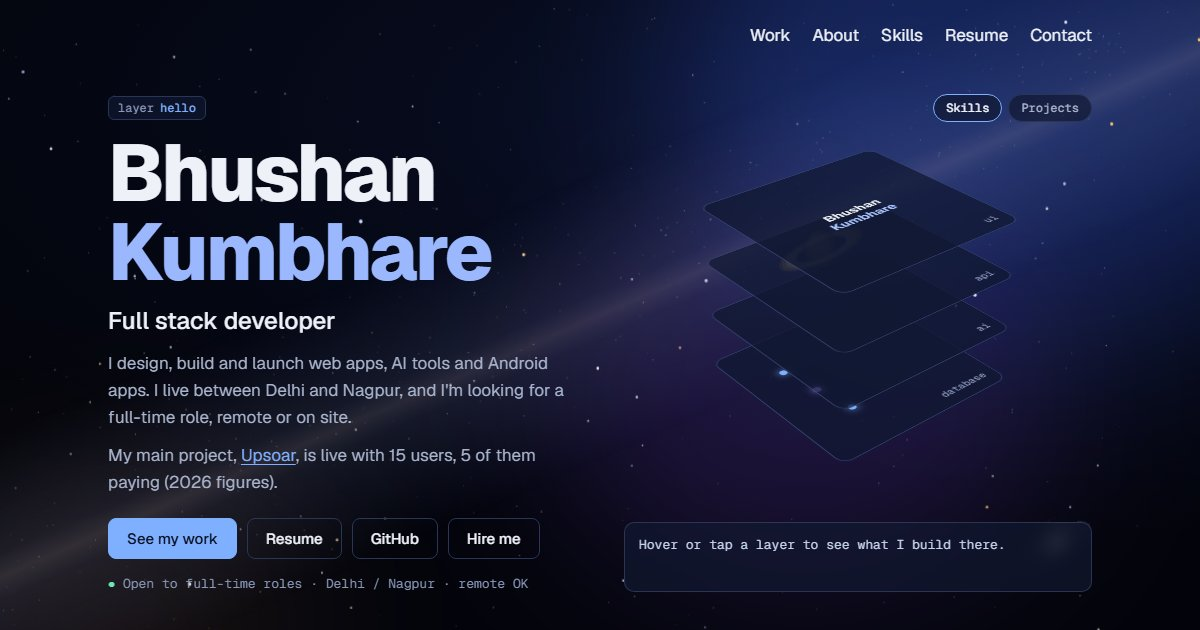
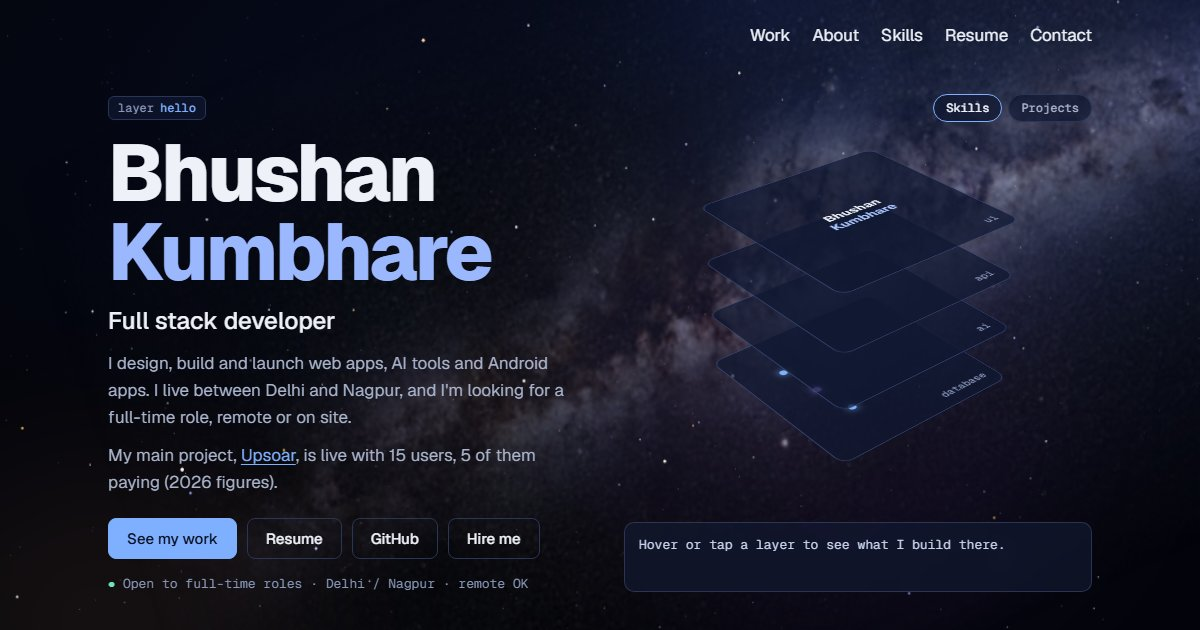
Use real space photos for the scroll journey
The far sky is ESO's Milky Way panorama, and the camera now flies past Cassini's
Saturn and Jupiter, Voyager 2's Neptune and Webb's Carina Nebula to the Event
Horizon Telescope's M87 black hole. Photos are blended so their black
backgrounds disappear, with faded edges where the background isn't pure black.
Light-speed streaks are capped for fast scrolls, the black hole only appears
near the end, and the footer credits every photo.

diff --git a/background.js b/background.js
@@ -1,6 +1,7 @@
-/* A trip through space behind the page. Scrolling flies the camera forward: past a ringed planet, an ice planet
-   and a nebula, ending at a black hole at the bottom of the page. The far sky (Milky Way, a galaxy) stays put,
-   with a slight pull toward the pointer. Also starts the 3D stack in the hero. */
+/* A trip through space behind the page, made from real photos. Scrolling flies the camera forward past Saturn,
+   Jupiter and Neptune, through the Carina Nebula, to the M87 black hole at the bottom of the page. The far sky is
+   the real Milky Way and stays put, with a slight pull toward the pointer. Also starts the 3D stack in the hero.
+   Photo credits are in the footer. */
 (function background() {
   const still = matchMedia('(prefers-reduced-motion: reduce)').matches;
   const canvas = document.getElementById('bg-space');
@@ -23,15 +24,87 @@
     };
   }
 
-  /* Planets, a nebula and the black hole sit at fixed depths. x is in half screen-widths from the centre, so they
-     land on screen on phones too; y and size are in screen-heights.
-     Each one stays hidden until it is closer than `show`, and they pass along the edges, so they don't sit behind text. */
+  /* Photos sit at fixed depths. x is in half screen-widths from the centre, so they land on screen on phones too;
+     y and width are in screen-heights. Each one stays hidden until it is closer than `show`, and they pass along
+     the edges, so they don't sit behind text. All the photos are on black, and they are drawn with "screen"
+     blending, which makes the black see-through. */
   const BODIES = [
-    { z: 1.9, x: .7, y: -.22, r: .07, kind: 'ringed', show: 2.3 },
-    { z: 2.7, x: -.75, y: .28, r: .05, kind: 'ice', show: 2.3 },
-    { z: 3.1, x: .25, y: .1, r: .3, kind: 'nebula', show: 2.6 },
-    { z: TRAVEL + .55, x: .2, y: -.02, r: .085, kind: 'hole', show: 2.2 }
+    { z: 1.7, x: .62, y: -.2, w: .5, src: 'saturn', show: 2.3 },
+    { z: 2.35, x: -.72, y: .22, w: .26, src: 'jupiter', show: 2.3 },
+    { z: 2.9, x: .7, y: .16, w: .24, src: 'neptune', show: 2.3 },
+    { z: 3.3, x: .1, y: 0, w: 1.5, src: 'carina', show: 2.7, alpha: .55 },
+    { z: TRAVEL + .55, x: .2, y: -.02, w: .62, src: 'black-hole', show: 1.3, hole: true }
   ];
+  const photos = {};
+  function loadPhotos() {
+    for (const name of ['milky-way', 'saturn', 'jupiter', 'neptune', 'carina', 'black-hole']) {
+      const img = new Image();
+      img.decoding = 'async';
+      img.onload = () => {
+        /* The nebula and black hole photos are not on pure black, so their edges are faded out once here. */
+        photos[name] = name === 'milky-way' ? band(img) : name === 'carina' || name === 'black-hole' ? feather(img) : img;
+        if (name === 'milky-way') { paintSky(); draw(performance.now()); }
+      };
+      img.src = 'assets/space/' + name + '.jpg';
+    }
+  }
+  function feather(img) {
+    const f = document.createElement('canvas'), g = f.getContext('2d');
+    f.width = img.width; f.height = img.height;
+    g.drawImage(img, 0, 0);
+    g.globalCompositeOperation = 'destination-in';
+    /* An oval fade that reaches zero at every edge. */
+    g.translate(f.width / 2, f.height / 2);
+    g.scale(1, f.height / f.width);
+    const m = g.createRadialGradient(0, 0, f.width * .12, 0, 0, f.width * .49);
+    m.addColorStop(0, '#000');
+    m.addColorStop(1, 'rgba(0, 0, 0, 0)');
+    g.fillStyle = m;
+    g.fillRect(-f.width / 2, -f.width / 2, f.width, f.width);
+    return f;
+  }
+
+  /* The middle of the Milky Way panorama, with its edges faded so no straight line shows. */
+  function band(img) {
+    const f = document.createElement('canvas'), g = f.getContext('2d');
+    f.width = img.width * .64; f.height = img.height * .5;
+    g.drawImage(img, img.width * .18, img.height * .25, f.width, f.height, 0, 0, f.width, f.height);
+    g.globalCompositeOperation = 'destination-in';
+    for (const [x1, y1] of [[0, f.height], [f.width, 0]]) {
+      const m = g.createLinearGradient(0, 0, x1, y1);
+      m.addColorStop(0, 'rgba(0, 0, 0, 0)');
+      m.addColorStop(.25, '#000');
+      m.addColorStop(.75, '#000');
+      m.addColorStop(1, 'rgba(0, 0, 0, 0)');
+      g.fillStyle = m;
+      g.fillRect(0, 0, f.width, f.height);
+    }
+    return f;
+  }
+
+  /* The far sky: the middle of ESO's Milky Way panorama, tilted into a diagonal band, over a few faint stars. */
+  function paintSky() {
+    const rnd = seeded(11);
+    s.clearRect(0, 0, W, H);
+    for (let i = 0, n = Math.round(W * H / 2600); i < n; i++) {
+      s.globalAlpha = .12 + rnd() * .4;
+      s.fillStyle = COLORS[rnd() * COLORS.length | 0];
+      s.fillRect(rnd() * W, rnd() * H, .9, .9);
+    }
+    const mw = photos['milky-way'];
+    if (mw) {
+      s.save();
+      s.globalAlpha = W < 760 ? .4 : .55;
+      s.globalCompositeOperation = 'screen';
+      /* The bright core of the galaxy sits right of centre, away from the text column. */
+      s.translate(W < 760 ? W * .6 : W * .68, H * .42);
+      s.rotate(-Math.atan2(H, W * 1.2));
+      const span = Math.hypot(W, H) * 1.1, tall = span * .5;
+      s.drawImage(mw, -span / 2, -tall / 2, span, tall);
+      s.restore();
+    }
+    s.globalAlpha = 1;
+  }
 
   function build() {
     const dpr = Math.min(devicePixelRatio || 1, 2);
@@ -41,48 +114,7 @@
     sky.width = W * dpr; sky.height = H * dpr;
     s.setTransform(dpr, 0, 0, dpr, 0, 0);
     const rnd = seeded(7);
-
-    /* The far sky: the Milky Way as a soft diagonal band, thick with faint stars, and a small spiral galaxy. */
-    s.clearRect(0, 0, W, H);
-    s.save();
-    s.translate(W / 2, H / 2);
-    s.rotate(-Math.atan2(H, W * 1.2));
-    const band = s.createLinearGradient(0, -H * .22, 0, H * .22);
-    band.addColorStop(0, 'rgba(150, 170, 255, 0)');
-    band.addColorStop(.42, 'rgba(170, 185, 255, .1)');
-    band.addColorStop(.5, 'rgba(230, 220, 255, .16)');
-    band.addColorStop(.58, 'rgba(170, 185, 255, .1)');
-    band.addColorStop(1, 'rgba(150, 170, 255, 0)');
-    s.fillStyle = band;
-    s.fillRect(-W, -H * .22, W * 2, H * .44);
-    s.restore();
-    for (let i = 0, n = Math.round(W * H / 1400); i < n; i++) {
-      const t = rnd(), off = (rnd() + rnd() + rnd() - 1.5) * H * .14;
-      const inBand = rnd() < .6;
-      const x = inBand ? -.1 * W + t * 1.2 * W + off * .6 : rnd() * W;
-      const y = inBand ? .95 * H - t * H + off : rnd() * H;
-      s.globalAlpha = .12 + rnd() * .45;
-      s.fillStyle = COLORS[rnd() * COLORS.length | 0];
-      s.fillRect(x, y, rnd() < .9 ? .8 : 1.3, rnd() < .9 ? .8 : 1.3);
-    }
-    s.save();
-    s.translate(W * .88, H * .86);
-    s.rotate(-.5);
-    s.scale(1, .42);
-    const size = Math.min(W, H) * .1, core = s.createRadialGradient(0, 0, 0, 0, 0, size * .35);
-    core.addColorStop(0, 'rgba(255, 236, 200, .55)');
-    core.addColorStop(1, 'rgba(255, 236, 200, 0)');
-    s.globalAlpha = 1;
-    s.fillStyle = core;
-    s.fillRect(-size, -size, size * 2, size * 2);
-    for (let i = 0; i < 900; i++) {
-      const d = Math.pow(rnd(), .7) * size, a = d / size * 5.5 + (i % 2) * Math.PI + (rnd() - .5) * .7;
-      s.globalAlpha = (1 - d / size) * .5;
-      s.fillStyle = d < size * .25 ? '#ffe9c4' : '#b9c8ff';
-      s.fillRect(Math.cos(a) * d, Math.sin(a) * d, 1, 1);
-    }
-    s.restore();
-    s.globalAlpha = 1;
+    paintSky();
 
     /* Stars in 3D. They repeat every DEPTH units, so flying forward never runs out of stars. */
     const spreadX = W / 2 / F * DEPTH, spreadY = H / 2 / F * DEPTH;
@@ -94,110 +126,6 @@
 
   function project(x, y, rel) {
     return [W / 2 - look.x * 24 + x / rel * F, H / 2 - look.y * 16 + y / rel * F];
-  }
-
-  function sphere(x, y, r, light, mid, dark) {
-    const g = c.createRadialGradient(x - r * .4, y - r * .45, r * .1, x, y, r);
-    g.addColorStop(0, light);
-    g.addColorStop(.55, mid);
-    g.addColorStop(1, dark);
-    c.fillStyle = g;
-    c.beginPath();
-    c.arc(x, y, r, 0, 6.283);
-    c.fill();
-  }
-
-  function ring(x, y, r, from, to, alpha) {
-    c.save();
-    c.translate(x, y);
-    c.rotate(-.35);
-    c.scale(1, .28);
-    c.globalAlpha *= alpha;
-    for (const [rr, col, w] of [[1.75, '#e9d3a6', .18], [2.05, '#c7a978', .12], [2.3, '#8f7a5a', .08]]) {
-      c.strokeStyle = col;
-      c.lineWidth = r * w * 3.4;
-      c.beginPath();
-      c.arc(0, 0, r * rr, from, to);
-      c.stroke();
-    }
-    c.restore();
-  }
-
-  function blackHole(x, y, r, t) {
-    const halo = c.createRadialGradient(x, y, r, x, y, r * 4);
-    halo.addColorStop(0, 'rgba(255, 170, 70, .35)');
-    halo.addColorStop(.4, 'rgba(255, 120, 40, .1)');
-    halo.addColorStop(1, 'rgba(255, 120, 40, 0)');
-    c.fillStyle = halo;
-    c.fillRect(x - r * 4, y - r * 4, r * 8, r * 8);
-    const disk = (from, to) => {
-      c.save();
-      c.translate(x, y);
-      c.rotate(-.12);
-      c.scale(1, .24);
-      /* Keep this half of the disk, streaks included, on its own side of the hole. */
-      c.beginPath();
-      c.rect(-r * 4, from === 0 ? 0 : -r * 4, r * 8, r * 4);
-      c.clip();
-      const g = c.createRadialGradient(0, 0, r * 1.15, 0, 0, r * 3.1);
-      g.addColorStop(0, 'rgba(255, 246, 220, .95)');
-      g.addColorStop(.35, 'rgba(255, 196, 92, .8)');
-      g.addColorStop(.75, 'rgba(214, 102, 40, .35)');
-      g.addColorStop(1, 'rgba(160, 60, 30, 0)');
-      c.fillStyle = g;
-      c.beginPath();
-      c.arc(0, 0, r * 3.1, from, to);
-      c.arc(0, 0, r * 1.15, to, from, true);
-      c.fill();
-      /* Hot streaks circling in the disk. */
-      c.strokeStyle = 'rgba(255, 240, 210, .2)';
-      c.lineWidth = r * .05 / .24;
-      for (let k = 0; k < 7; k++) {
-        const rr = r * (1.35 + k * .15), a = t * (1.6 - k * .15) + k;
-        c.beginPath();
-        c.arc(0, 0, rr, a, a + .6);
-        c.stroke();
-      }
-      c.restore();
-    };
-    disk(Math.PI, Math.PI * 2);
-    /* Light from the far side of the disk bends up over the hole, which makes the arc on top. */
-    c.save();
-    c.translate(x, y);
-    c.scale(1, .9);
-    const arc = c.createRadialGradient(0, 0, r * 1.1, 0, 0, r * 1.75);
-    arc.addColorStop(0, 'rgba(255, 236, 190, .85)');
-    arc.addColorStop(.5, 'rgba(255, 180, 80, .45)');
-    arc.addColorStop(1, 'rgba(255, 140, 50, 0)');
-    c.fillStyle = arc;
-    c.beginPath();
-    c.arc(0, 0, r * 1.75, Math.PI, Math.PI * 2);
-    c.arc(0, 0, r * 1.1, Math.PI * 2, Math.PI, true);
-    c.fill();
-    c.restore();
-    /* The thin bright ring right at the edge of the hole. */
-    c.strokeStyle = 'rgba(255, 214, 140, .9)';
-    c.lineWidth = r * .1;
-    c.beginPath();
-    c.arc(x, y, r * 1.12, 0, 6.283);
-    c.stroke();
-    c.fillStyle = '#000';
-    c.beginPath();
-    c.arc(x, y, r, 0, 6.283);
-    c.fill();
-    disk(0, Math.PI);
-  }
-
-  function nebula(x, y, r) {
-    c.globalCompositeOperation = 'lighter';
-    for (const [dx, dy, rr, col] of [[0, 0, 1, '120, 80, 255'], [.35, -.2, .7, '40, 160, 255'], [-.3, .25, .6, '255, 90, 170'], [.1, .3, .5, '255, 190, 90']]) {
-      const g = c.createRadialGradient(x + dx * r, y + dy * r, 0, x + dx * r, y + dy * r, rr * r);
-      g.addColorStop(0, 'rgba(' + col + ', .22)');
-      g.addColorStop(1, 'rgba(' + col + ', 0)');
-      c.fillStyle = g;
-      c.fillRect(x + dx * r - rr * r, y + dy * r - rr * r, rr * r * 2, rr * r * 2);
-    }
-    c.globalCompositeOperation = 'source-over';
   }
 
   function draw(t) {
@@ -219,7 +147,8 @@
       c.globalAlpha = Math.min(1, .3 + near * 1.1) * twinkle;
       c.fillStyle = c.strokeStyle = st.color;
       if (Math.abs(speed) > .002 && rel > .2) {
-        const [px, py] = project(st.x, st.y, rel + speed * 8);
+        /* Capped, so a fast fling doesn't smear the whole screen. */
+        const [px, py] = project(st.x, st.y, rel + Math.max(-.2, Math.min(.2, speed * 8)));
         c.lineWidth = r;
         c.beginPath();
         c.moveTo(px, py);
@@ -232,30 +161,20 @@
       }
     }
 
-    /* Planets, the nebula and the black hole, farthest first. Bodies fade as they rush past the camera. */
-    const bodies = BODIES.map(b => ({ ...b, rel: b.z - camShown })).filter(b => b.rel > .06).sort((a, b) => b.rel - a.rel);
+    /* The photos, farthest first. They fade in as they approach and fade out as they rush past the camera. */
+    const bodies = BODIES.map(b => ({ ...b, rel: b.z - camShown })).filter(b => b.rel > .06 && photos[b.src]).sort((a, b) => b.rel - a.rel);
+    c.globalCompositeOperation = 'screen';
     for (const b of bodies) {
-      /* On phones the text fills the width, so bodies are smaller and the black hole settles lower, near the footer. */
-      const phone = W < 760, lower = phone && b.kind === 'hole' ? .26 : 0;
+      /* On phones the text fills the width, so photos are smaller and the black hole settles lower, near the footer. */
+      const phone = W < 760, lower = phone && b.hole ? .17 : 0;
+      const img = photos[b.src], w = b.w * F / b.rel * (phone ? .6 : 1), h = w * img.height / img.width;
       const x = W / 2 - look.x * 24 + b.x * W / 2 / b.rel, y = H / 2 - look.y * 16 + (b.y + lower) * F / b.rel;
-      const r = b.r * F / b.rel * (phone ? .6 : 1);
-      if (x + r * 4 < 0 || x - r * 4 > W || y + r * 4 < 0 || y - r * 4 > H) continue;
-      c.globalAlpha = Math.min(1, (b.rel - .06) / .3) * Math.min(1, Math.max(0, (b.show - b.rel) / .8));
-      if (W < 760) c.globalAlpha *= .75;
+      if (x + w / 2 < 0 || x - w / 2 > W || y + h / 2 < 0 || y - h / 2 > H) continue;
+      c.globalAlpha = Math.min(1, (b.rel - .06) / .3) * Math.min(1, Math.max(0, (b.show - b.rel) / .8)) * (b.alpha || 1) * (phone ? .75 : 1);
       if (c.globalAlpha <= 0) continue;
-      if (b.kind === 'ringed') {
-        ring(x, y, r, Math.PI, Math.PI * 2, 1);
-        sphere(x, y, r, '#f6e2b8', '#c9925a', '#3a2412');
-        ring(x, y, r, 0, Math.PI, 1);
-      } else if (b.kind === 'ice') {
-        sphere(x, y, r, '#e6f4ff', '#5ea8e8', '#0b2347');
-        sphere(x + r * 1.9, y - r * .8, r * .27, '#f2f2f2', '#9aa3ad', '#2b3036');
-      } else if (b.kind === 'nebula') {
-        nebula(x, y, r);
-      } else {
-        blackHole(x, y, r, still ? 0 : t / 1000);
-      }
+      c.drawImage(img, x - w / 2, y - h / 2, w, h);
     }
+    c.globalCompositeOperation = 'source-over';
     c.globalAlpha = 1;
   }
 
@@ -286,6 +205,7 @@
   });
   builtW = innerWidth; builtH = innerHeight;
   build();
+  loadPhotos();
   scrollTarget();
   camShown = cam;
   draw(0);

diff --git a/index.html b/index.html
@@ -19,8 +19,8 @@
 <link rel="preconnect" href="https://fonts.gstatic.com" crossorigin>
 <link href="https://fonts.googleapis.com/css2?family=Geist:wght@400..800&family=Geist+Mono:wght@400;500&display=swap" rel="stylesheet">
 <!-- The ?v= on CSS and JS links makes browsers fetch fresh files after an update. Change it (for example to the date) on every update. -->
-<link rel="stylesheet" href="style.css?v=20261113f">
-<link rel="stylesheet" href="background.css?v=20261113f">
+<link rel="stylesheet" href="style.css?v=20261113h">
+<link rel="stylesheet" href="background.css?v=20261113h">
 </head>
 <body>
 <div class="bg" aria-hidden="true">
@@ -114,13 +114,14 @@
 
   <footer class="foot">
     <span>© 2026 Bhushan Kumbhare · plain HTML, CSS and JavaScript</span>
+    <span class="credits">Space photos: NASA/JPL-Caltech/SSI (Saturn, Jupiter), NASA/JPL (Neptune), NASA, ESA, CSA, STScI (Carina Nebula), <a href="https://www.eso.org/public/images/eso0932a/" target="_blank" rel="noopener">ESO/S. Brunier</a> (Milky Way), <a href="https://www.eso.org/public/images/eso1907a/" target="_blank" rel="noopener">EHT Collaboration</a> (M87 black hole), <a href="https://creativecommons.org/licenses/by/4.0/" target="_blank" rel="noopener">CC BY 4.0</a></span>
     <span>stack <b>v2026.11</b> · <a href="https://github.com/shaggyb1/shaggyb1.github.io/commits/main" target="_blank" rel="noopener">changelog</a></span>
   </footer>
 </div>
 
-<script src="data.js?v=20261113f"></script>
-<script src="demos.js?v=20261113f"></script>
-<script src="script.js?v=20261113f"></script>
-<script src="background.js?v=20261113f"></script>
+<script src="data.js?v=20261113h"></script>
+<script src="demos.js?v=20261113h"></script>
+<script src="script.js?v=20261113h"></script>
+<script src="background.js?v=20261113h"></script>
 </body>
 </html>

diff --git a/style.css b/style.css
@@ -89,6 +89,8 @@ h2 {
   font: 400 13px var(--mono); color: #8a98ba;
 }
 .foot b { font-weight: 500; color: var(--link); }
+.foot .credits { flex-basis: 100%; order: 3; font-size: 11px; line-height: 1.6; }
+.foot .credits a { color: inherit; }
 
 /* Projects */
 .project { margin-bottom: 64px; }
